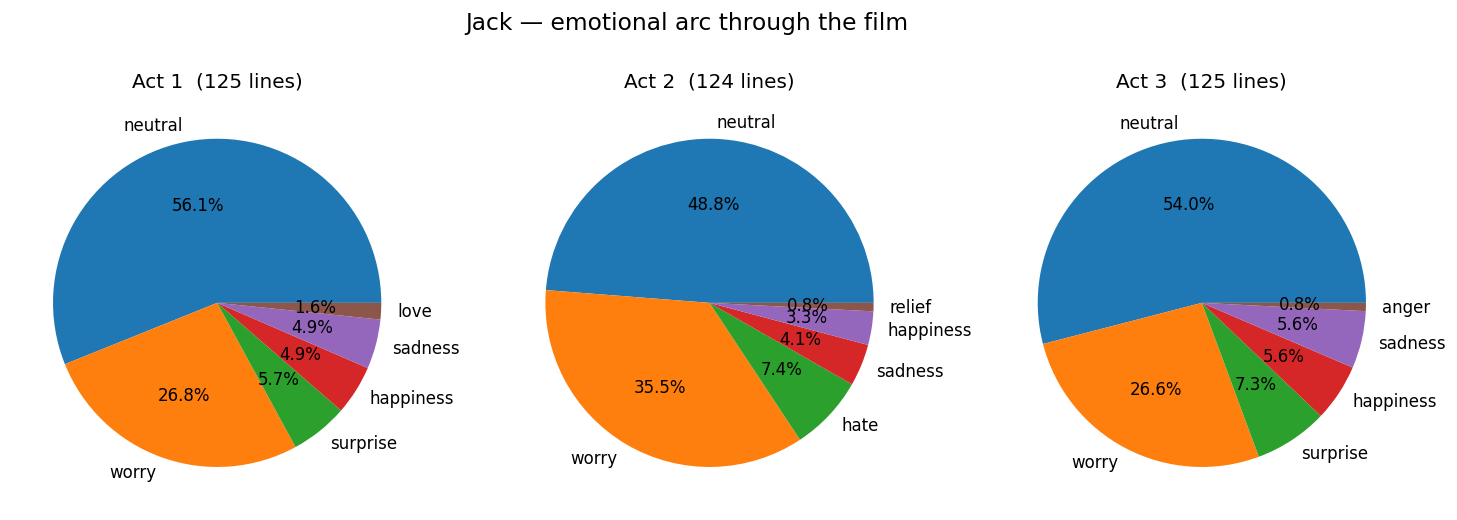
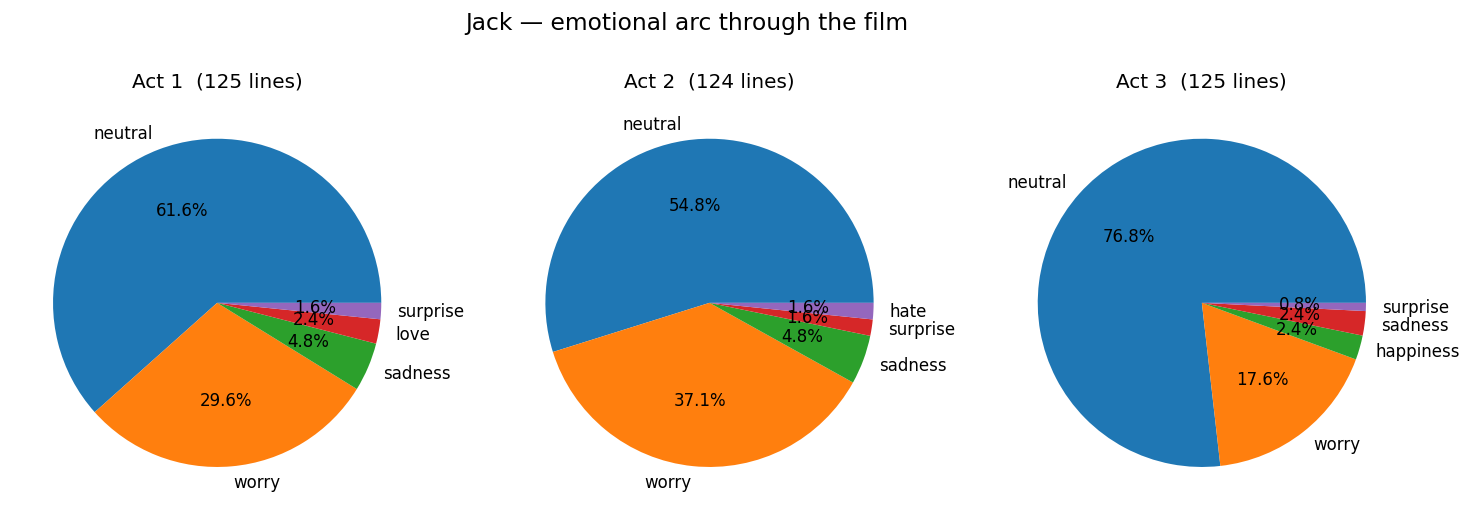
Introduce model improvements

diff --git a/src/model.py b/src/model.py
@@ -1,4 +1,16 @@
-"""Vectorizer + classifier factories, training, persistence, inference."""
+"""Embedder + classifier factories, training, persistence, inference.
+
+The model fleet:
+- `all-MiniLM-L6-v2` (sentence-transformers) for 384-dim sentence embeddings.
+- `LogisticRegression(class_weight="balanced")` on top, so the 13 imbalanced
+  tweet classes don't collapse to majority predictions like the original
+  LinearSVC did.
+
+The sentence-transformer model is NOT joblib-pickled. We persist its name in
+`config.EMBEDDING_MODEL_NAME` and reload it on demand; the cached weights live
+under `~/.cache/huggingface/`. Only the label encoder and the LR classifier go
+to disk via joblib.
+"""
 from __future__ import annotations
 
 import logging
@@ -6,46 +18,46 @@ from pathlib import Path
 from typing import Iterable
 
 import joblib
+import numpy as np
 import pandas as pd
-from sklearn.feature_extraction.text import TfidfVectorizer
+from sentence_transformers import SentenceTransformer
+from sklearn.linear_model import LogisticRegression
 from sklearn.metrics import classification_report
 from sklearn.model_selection import train_test_split
 from sklearn.preprocessing import LabelEncoder
-from sklearn.svm import LinearSVC
 
 from src import config
 
 logger = logging.getLogger(__name__)
 
-VECTORIZER_PATH = config.MODELS_DIR / "vectorizer.joblib"
 LABEL_ENCODER_PATH = config.MODELS_DIR / "label_encoder.joblib"
 CLASSIFIER_PATH = config.MODELS_DIR / "classifier.joblib"
 
 
-def build_vectorizer() -> TfidfVectorizer:
-    return TfidfVectorizer(
-        analyzer="word",
-        stop_words=config.STOP_WORDS,
-        max_features=config.MAX_TFIDF_FEATURES,
-    )
+def build_embedder() -> SentenceTransformer:
+    """Load the sentence-transformer; auto-uses MPS / CUDA when available."""
+    return SentenceTransformer(config.EMBEDDING_MODEL_NAME)
 
 
 def build_label_encoder() -> LabelEncoder:
     return LabelEncoder()
 
 
-def build_classifier() -> LinearSVC:
-    return LinearSVC(random_state=config.RANDOM_STATE, max_iter=1000)
+def build_classifier() -> LogisticRegression:
+    return LogisticRegression(max_iter=2000, random_state=config.RANDOM_STATE)
 
 
-def train(X: pd.Series, y: pd.Series) -> tuple[TfidfVectorizer, LabelEncoder, LinearSVC, str]:
-    """Fit vectorizer + encoder + classifier end-to-end.
+def _embed(embedder: SentenceTransformer, texts: Iterable[str]) -> np.ndarray:
+    return embedder.encode(
+        list(texts),
+        batch_size=config.EMBEDDING_BATCH_SIZE,
+        show_progress_bar=True,
+        convert_to_numpy=True,
+    )
 
-    Internal train/test split (seeded) so the printed classification report
-    reflects held-out performance. The TF-IDF matrix stays sparse throughout —
-    `LinearSVC` accepts sparse natively, and densifying it (as the original
-    notebook did via `.toarray()`) would materialize a 28k × 5000 array.
-    """
+
+def train(X: pd.Series, y: pd.Series) -> tuple[SentenceTransformer, LabelEncoder, LogisticRegression, str]:
+    """Embed train + test, fit a class-balanced LR, return the held-out report."""
     X_train_text, X_test_text, y_train_raw, y_test_raw = train_test_split(
         X, y, test_size=config.TEST_SIZE, random_state=config.RANDOM_STATE
     )
@@ -54,46 +66,46 @@ def train(X: pd.Series, y: pd.Series) -> tuple[TfidfVectorizer, LabelEncoder, Li
     y_train = label_encoder.fit_transform(y_train_raw)
     y_test = label_encoder.transform(y_test_raw)
 
-    vectorizer = build_vectorizer()
-    X_train = vectorizer.fit_transform(X_train_text)
-    X_test = vectorizer.transform(X_test_text)
+    embedder = build_embedder()
+    logger.info("Embedding %d training tweets...", len(X_train_text))
+    X_train_emb = _embed(embedder, X_train_text)
+    logger.info("Embedding %d test tweets...", len(X_test_text))
+    X_test_emb = _embed(embedder, X_test_text)
 
     classifier = build_classifier()
-    classifier.fit(X_train, y_train)
+    classifier.fit(X_train_emb, y_train)
 
-    y_pred = classifier.predict(X_test)
+    y_pred = classifier.predict(X_test_emb)
     report = classification_report(
         y_test, y_pred, target_names=label_encoder.classes_, zero_division=0
     )
-    return vectorizer, label_encoder, classifier, report
+    return embedder, label_encoder, classifier, report
 
 
 def persist(
-    vectorizer: TfidfVectorizer,
     label_encoder: LabelEncoder,
-    classifier: LinearSVC,
+    classifier: LogisticRegression,
     models_dir: Path = config.MODELS_DIR,
 ) -> None:
+    """Persist only the label encoder and classifier. The embedder reloads from its name."""
     models_dir.mkdir(parents=True, exist_ok=True)
-    joblib.dump(vectorizer, models_dir / "vectorizer.joblib")
     joblib.dump(label_encoder, models_dir / "label_encoder.joblib")
     joblib.dump(classifier, models_dir / "classifier.joblib")
 
 
-def load_all(models_dir: Path = config.MODELS_DIR) -> tuple[TfidfVectorizer, LabelEncoder, LinearSVC]:
-    return (
-        joblib.load(models_dir / "vectorizer.joblib"),
-        joblib.load(models_dir / "label_encoder.joblib"),
-        joblib.load(models_dir / "classifier.joblib"),
-    )
+def load_all(models_dir: Path = config.MODELS_DIR) -> tuple[SentenceTransformer, LabelEncoder, LogisticRegression]:
+    embedder = build_embedder()
+    label_encoder = joblib.load(models_dir / "label_encoder.joblib")
+    classifier = joblib.load(models_dir / "classifier.joblib")
+    return embedder, label_encoder, classifier
 
 
 def predict_emotions(
     lines: Iterable[str],
-    vectorizer: TfidfVectorizer,
-    classifier: LinearSVC,
+    embedder: SentenceTransformer,
+    classifier: LogisticRegression,
     label_encoder: LabelEncoder,
 ) -> list[str]:
-    X = vectorizer.transform(list(lines))
-    codes = classifier.predict(X)
+    embeddings = _embed(embedder, lines)
+    codes = classifier.predict(embeddings)
     return label_encoder.inverse_transform(codes).tolist()

diff --git a/src/pipeline.py b/src/pipeline.py
@@ -22,9 +22,9 @@ def run_train() -> None:
     logger.info("Loading tweets from %s", config.TWEETS_CSV)
     X, y = load_tweets()
     logger.info("Training classifier on %d tweets...", len(X))
-    vectorizer, label_encoder, classifier, report = train(X, y)
+    _, label_encoder, classifier, report = train(X, y)
     print(report)
-    persist(vectorizer, label_encoder, classifier)
+    persist(label_encoder, classifier)
     logger.info("Artifacts saved to %s", config.MODELS_DIR)
 
 
@@ -33,7 +33,7 @@ def run_analyze(
     characters: tuple[str, ...] = config.FIGHT_CLUB_CHARACTERS,
 ) -> None:
     logger.info("Loading model artifacts from %s", config.MODELS_DIR)
-    vectorizer, label_encoder, classifier = load_all()
+    embedder, label_encoder, classifier = load_all()
 
     logger.info("Loading movie lines from %s", config.MOVIE_LINES_PATH)
     lines_df = load_movie_lines()
@@ -45,7 +45,7 @@ def run_analyze(
             logger.warning("No lines for %s in %s — skipping", char, movie_id)
             continue
         logger.info("Analyzing %s (%d lines)...", char, len(lines))
-        df = analyze_character(char, lines, vectorizer, classifier, label_encoder)
+        df = analyze_character(char, lines, embedder, classifier, label_encoder)
         out = config.FIGURES_DIR / f"{char.lower()}_arc.png"
         plot_character_arc(char, df, out)
         logger.info("Wrote %s", out)

diff --git a/src/analysis.py b/src/analysis.py
@@ -22,12 +22,12 @@ def split_into_thirds(items: Sequence) -> list:
 def analyze_character(
     name: str,
     lines: pd.Series,
-    vectorizer,
+    embedder,
     classifier,
     label_encoder,
 ) -> pd.DataFrame:
     """Predict an emotion for each line and assign each row a timeline bucket."""
-    emotions = predict_emotions(lines, vectorizer, classifier, label_encoder)
+    emotions = predict_emotions(lines, embedder, classifier, label_encoder)
     bucketed = split_into_thirds(list(range(len(emotions))))
     bucket = [0] * len(emotions)
     for i, indices in enumerate(bucketed):

diff --git a/src/config.py b/src/config.py
@@ -13,8 +13,8 @@ MOVIE_LINES_PATH = DATA_DIR / "cornell movie-dialogs corpus" / "movie_lines.txt"
 # Training
 RANDOM_STATE = 4  # preserved from the original notebook
 TEST_SIZE = 0.3
-MAX_TFIDF_FEATURES = 5000
-STOP_WORDS = "english"
+EMBEDDING_MODEL_NAME = "sentence-transformers/all-MiniLM-L6-v2"
+EMBEDDING_BATCH_SIZE = 64
 
 # Movie-dialogue analysis
 FIGHT_CLUB_MOVIE_ID = "m348"

diff --git a/README.md b/README.md
@@ -16,16 +16,29 @@ After running the pipeline, `reports/figures/` contains a three-panel emotional 
 
 ## Approach
 
-- **Classifier.** TF-IDF (5 000 features, English stopwords) → LinearSVC on the Kaggle [Emotion Detection from Text](https://www.kaggle.com/datasets/pashupatigupta/emotion-detection-from-text) dataset (~40 k tweets, 13 sentiment classes).
-- **Sparse throughout.** The TF-IDF matrix is kept sparse end-to-end; LinearSVC accepts it natively. The original notebook called `.toarray()` everywhere — densifying a 28 k × 5 000 matrix per stage was a bug worth fixing during the refactor.
-- **Per-character analysis.** Filter the Cornell corpus to a movie ID, pull each character's lines, vectorise with the trained TF-IDF, predict an emotion per line.
+- **Sentence embeddings.** Each tweet (and each line of movie dialogue at inference time) is embedded into a 384-dim vector via `sentence-transformers/all-MiniLM-L6-v2`. This replaced an earlier TF-IDF baseline (see "What changed from the original" below).
+- **Classifier.** Logistic regression on the embeddings. Trained on ~28 k tweets from the Kaggle [Emotion Detection from Text](https://www.kaggle.com/datasets/pashupatigupta/emotion-detection-from-text) dataset (40 k total, 70/30 split, 13 sentiment classes — heavily imbalanced).
+- **Per-character analysis.** Filter the Cornell corpus to a movie ID, pull each character's lines, embed them with the same model, predict an emotion per line.
 - **Three-act arc.** Split each character's lines into three contiguous timeline buckets and render a top-emotions pie per act. The original notebook hardcoded the bucket boundaries per character; the refactor generalises to `N_TIMELINE_BUCKETS` (configurable).
-- **Persisted artifacts.** Vectorizer, label encoder, and classifier are joblib-dumped to `models/` so `--analyze` works without retraining.
+- **Persisted artifacts.** Label encoder and classifier are joblib-dumped to `models/` so `--analyze` works without retraining. The sentence-transformer itself is *not* pickled — its name is stored in `config.EMBEDDING_MODEL_NAME` and it reloads from the local Hugging Face cache.
+
+## Results on held-out tweets
+
+| Model | Accuracy | Weighted F1 | Macro F1 |
+| --- | --- | --- | --- |
+| TF-IDF (5 k) + LinearSVC (original baseline) | 0.31 | 0.29 | 0.18 |
+| all-MiniLM-L6-v2 + LogisticRegression (current) | **0.37** | **0.33** | 0.17 |
+
+Big classes (`neutral`, `worry`, `love`, `happiness`) gain ~5–8 F1 points each from the upgrade. Macro F1 stays flat because the four smallest classes (`anger`, `boredom`, `empty`, `enthusiasm`, each with <300 samples in a 40 k corpus) collapse to zero recall under both models — embeddings don't fix severe class imbalance.
 
 ## Known limitations
 
-- **Modest classifier accuracy.** TF-IDF + linear SVM on 13 heavily imbalanced classes hits roughly 30% accuracy on held-out tweets. Modern sentence embeddings (e.g. sentence-transformers) plus class-imbalance handling would be the obvious next step; that work is planned for a follow-up iteration.
+- **Small classes still unrecoverable.** Without targeted sampling or a different loss, the imbalanced minorities don't survive. `class_weight="balanced"` was tested and made things worse (it overcorrects when one class has ~75× the support of another).
 - **Tweet-trained / dialogue-applied.** Domain shift between tweets and movie dialogue is real. The arcs are interpretable and entertaining, not clinical.
+
+## What changed from the original notebook
+
+The first refactor mechanically extracted the original TF-IDF + LinearSVC pipeline into modules. The current model layer replaces it with sentence-transformers + LR. Architecture-wise the rest of the pipeline (data loading, per-character analysis, the three-act bucketing, persistence) is unchanged — only the embedding step and the classifier swapped. The original `.toarray()` densification bug that motivated the first cleanup is moot now: ST embeddings are inherently dense and small (384 dims).
 
 ## Get the data
 
@@ -40,14 +53,14 @@ data/
 
 ## How to run
 
-Prerequisites: Python 3.13.
+Prerequisites: Python 3.13. The sentence-transformer model (`all-MiniLM-L6-v2`, ~90 MB) downloads on first use and caches under `~/.cache/huggingface/`. Apple Silicon Macs auto-use MPS; CUDA GPUs auto-detect too.
 
 ```bash
 python3.13 -m venv .venv
 source .venv/bin/activate
 pip install -r requirements.txt
 
-python -m src.pipeline             # train + analyze (default)
+python -m src.pipeline             # train + analyze (default, ~30s on MPS)
 python -m src.pipeline --train     # train only — persists to models/
 python -m src.pipeline --analyze   # analyze only — loads models/, writes reports/figures/
 
@@ -64,7 +77,7 @@ movie-dialogue-emotions/
 ├── src/
 │   ├── config.py          # paths, hyperparams, movie ID & character list
 │   ├── data.py            # tweet loader + Cornell movie_lines parser
-│   ├── model.py           # TF-IDF + LabelEncoder + LinearSVC; train / persist / load / predict
+│   ├── model.py           # sentence-transformer embedder + LR; train / persist / load / predict
 │   ├── analysis.py        # split_into_thirds + analyze_character + plot_character_arc
 │   └── pipeline.py        # train(), analyze(), CLI
 ├── notebooks/